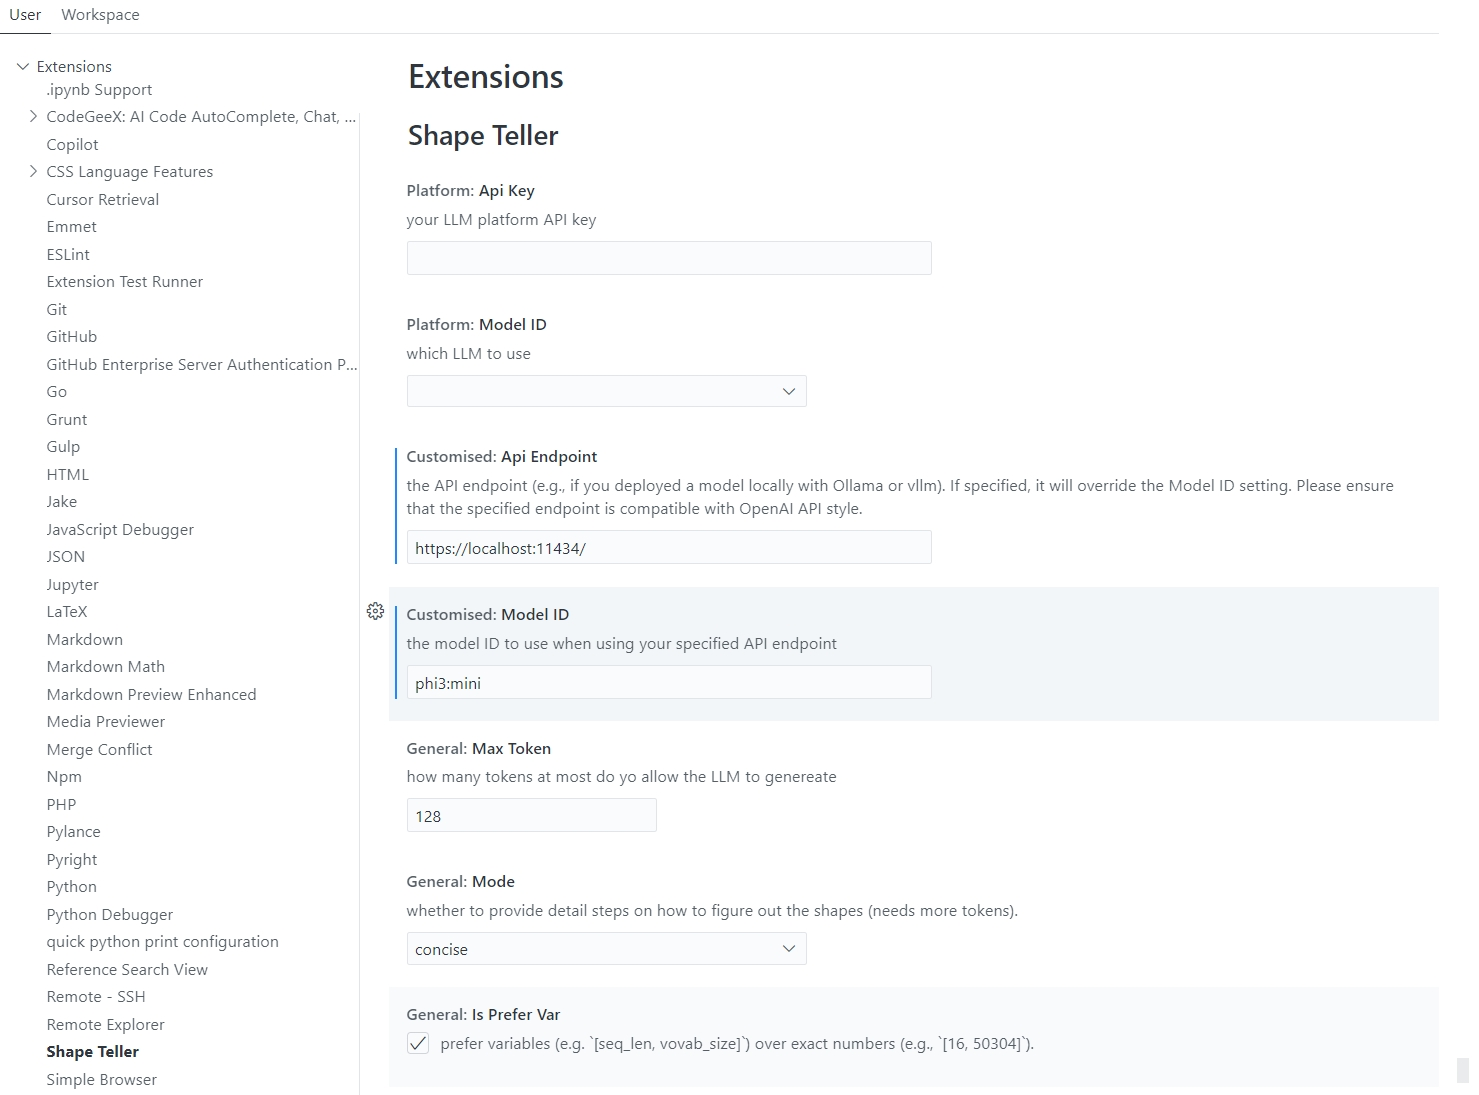
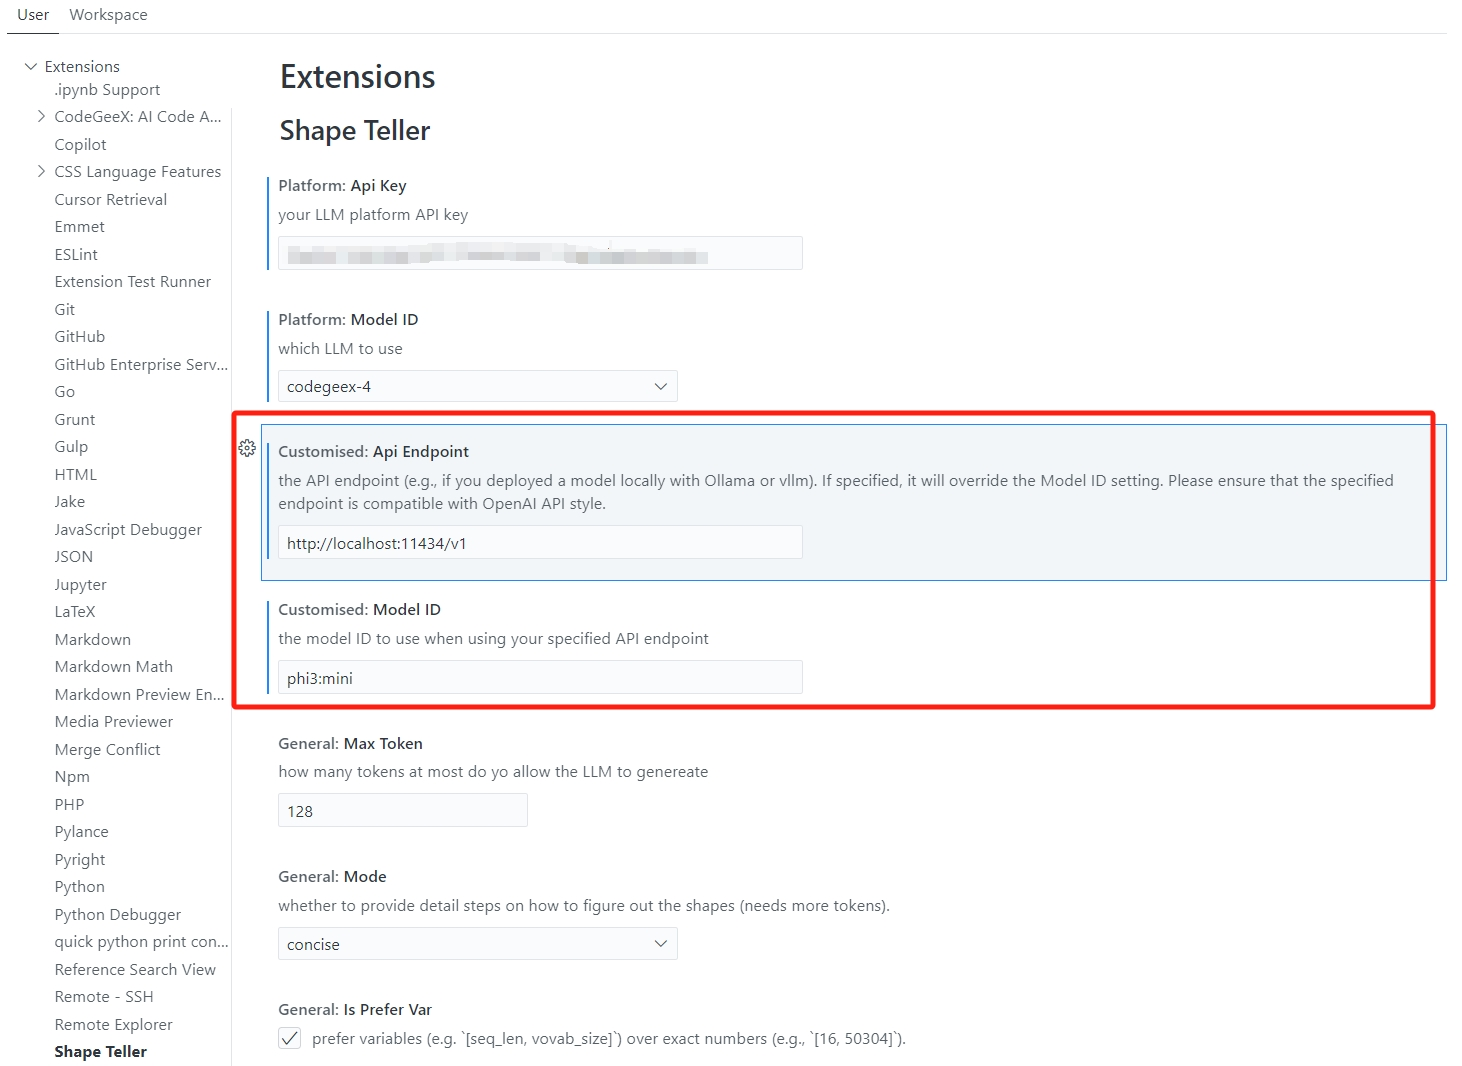
update docs

diff --git a/README.md b/README.md
@@ -34,9 +34,12 @@ Install from [VScode Extension Marketplace](https://marketplace.visualstudio.com
 
 ### Use your own LLM
 
-If you deployed your own model using [Ollama](https://github.com/ollama/ollama) or [vllm](https://github.com/vllm-project/vllm), *which support OpenAI-compatible API*, then you can use it as well. Just set the `shapeteller.customised.modelId` and `shapeteller.customised.apiENdpoint` in the settings. For example, if you run Ollama to serve a `phi3:mini` model:
+If you deployed your own model using [Ollama](https://github.com/ollama/ollama) or [vllm](https://github.com/vllm-project/vllm), *which support OpenAI-compatible API*, then you can use it as well. Just set the `shapeteller.customised.modelId` and `shapeteller.customised.apiENdpoint` in the settings. For example, if you run Ollama to serve a `phi3:mini` model, and your API endpoint is (by default) ``:
 
 <img src="docs/images/full-settings.png">
+
+> [!NOTE]
+> If you set your `shapeteller.customised.modelId` and `shapeteller.customised.apiEndpoint`, then the `shapeteller.platform.modelId` and `shapeteller.platform.apiKey` would be ignored. That says, the extension will prioritise your customised model over the commercial ones.
 
 ### General Settings
 
